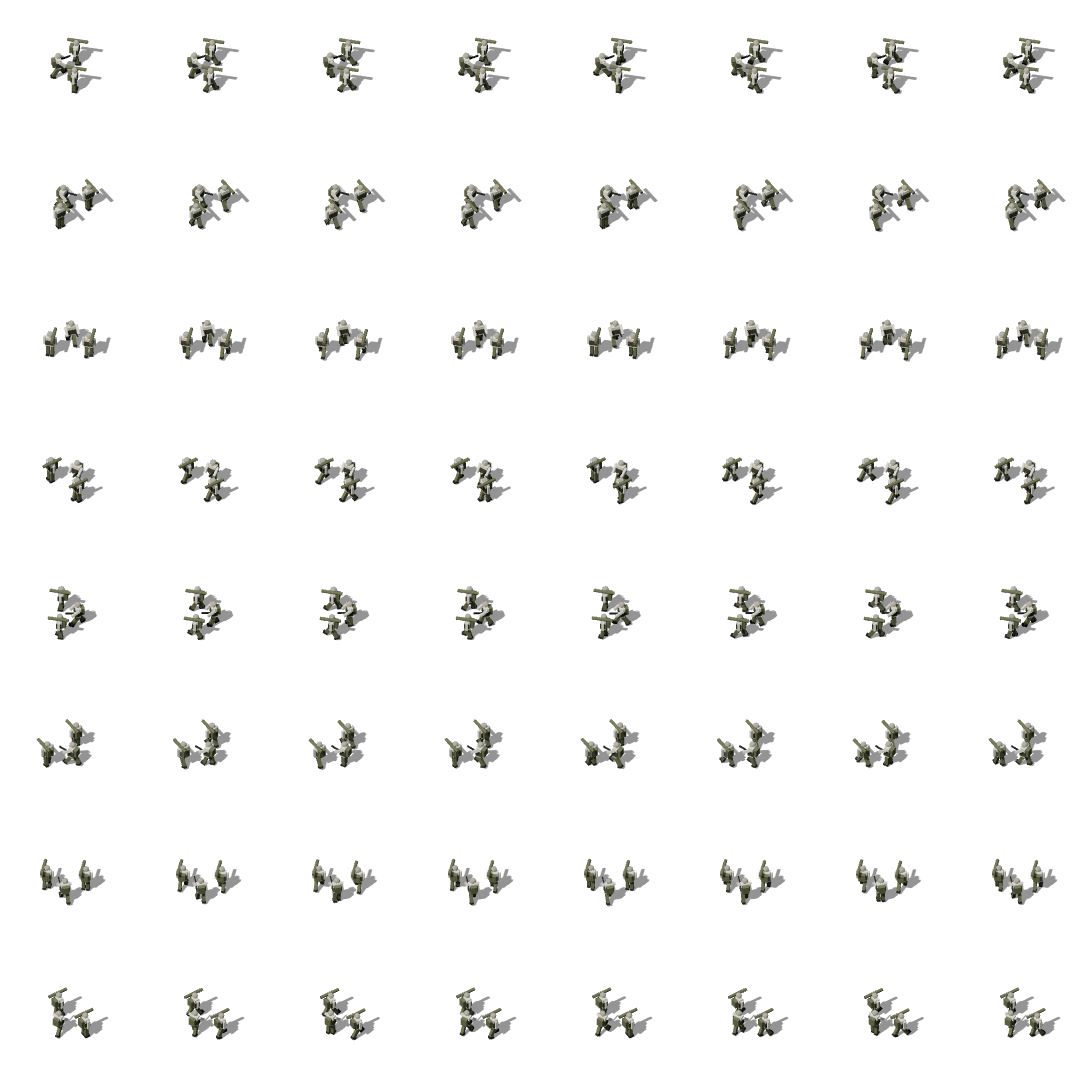
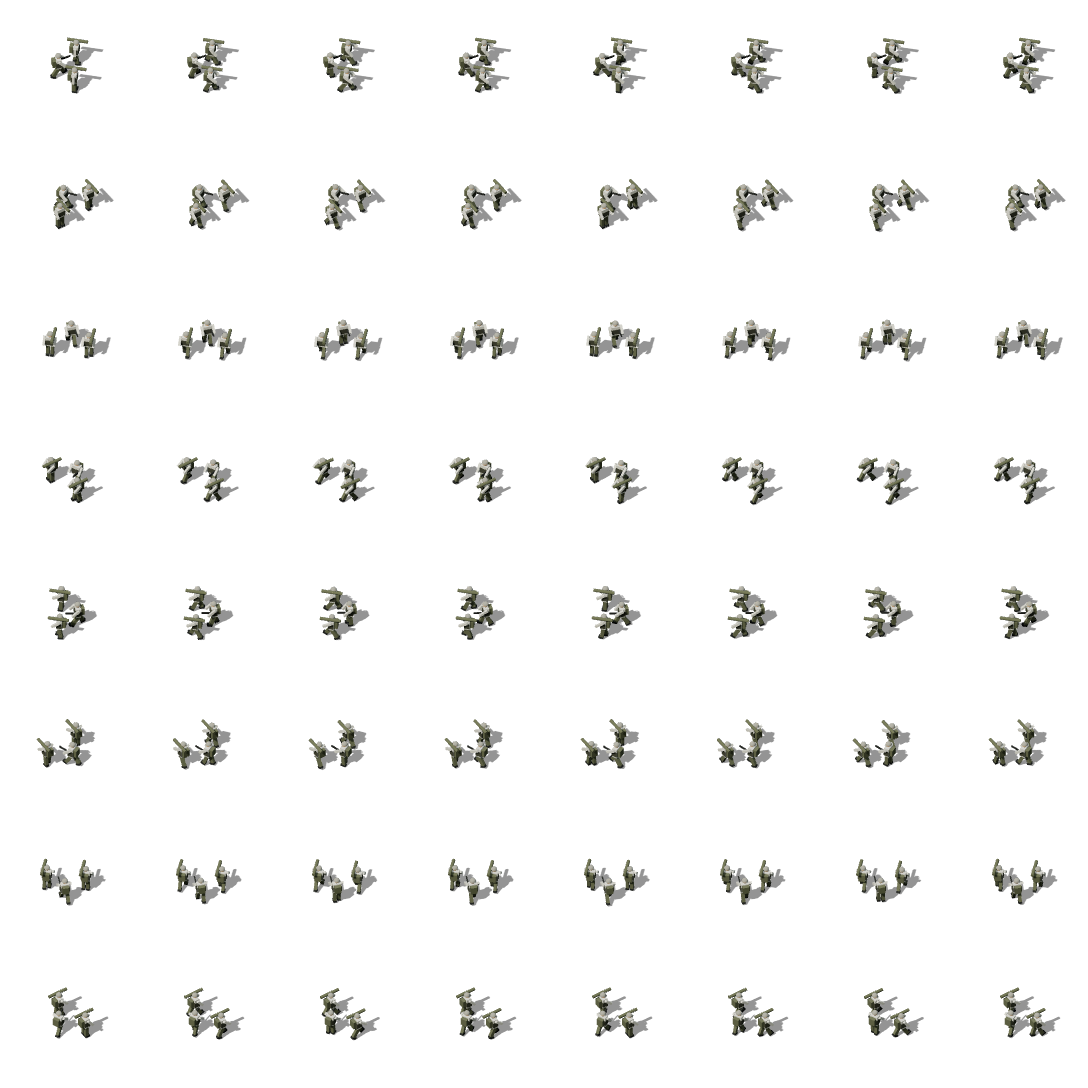
Units: MLRS (range 2) and special forces (stealth) with new 3D models, arm-swing walk cycle, wheel/track/foot movement types
Claude-Session: https://claude.ai/code/session_01KVGBc2Umi6eiR6tSvLXXtJ

diff --git a/index.html b/index.html
@@ -437,6 +437,8 @@ const UNITS = {
   frig: {name:'Gannet Frigate',    short:'FRG', cls:'naval',   cost:60, oil:6,  metal:18, mp:6,  atk:4, def:5, hp:14, spd:9,  build:60, upk:3, food:0.5, fuel:1,   req:{b:'yard', l:1}, tech:null,  vs:{air:1.8, soft:0.5, armored:0.4}, role:'Escort: protects troop convoys, shoots down aircraft.'},
   sub:  {name:'Moray Submarine',   short:'SUB', cls:'naval',   cost:55, oil:4,  metal:15, mp:5,  atk:6, def:2, hp:9,  spd:8,  build:60, upk:2, food:0.5, fuel:1,   req:{b:'yard', l:1}, tech:null,  vs:{naval:2.0, soft:0, armored:0, air:0}, role:'Hunter: double damage to ships, harmless to everything else.'},
   crui: {name:'Tempest Cruiser',   short:'CRU', cls:'naval',   cost:75, oil:10, metal:30, mp:8,  atk:7, def:6, hp:20, spd:7,  build:96, upk:5, food:0.5, fuel:2,   req:{b:'yard', l:2}, tech:null,  vs:{naval:1.3, soft:1.1, armored:0.8, air:0.6}, role:'Capital ship: bombards coasts next to its sea zone.'},
+  mlrs: {name:'Thunder MLRS',      short:'MRL', cls:'armored', cost:60, oil:5,  metal:16, mp:8,  atk:8, def:2, hp:9,  spd:7,  build:54, upk:3, food:0.5, fuel:1, req:{b:'fac', l:2}, tech:'art2', vs:{soft:1.5, armored:0.9}, role:'Rocket artillery on wheels: shells enemies up to 2 provinces away. Fragile in close combat.'},
+  spec: {name:'Wraith Special Forces', short:'SOF', cls:'soft', cost:55, oil:0,  metal:5,  mp:8,  atk:5, def:4, hp:10, spd:5,  build:42, upk:2, food:1,   fuel:0,   req:{b:'fac', l:1}, tech:'inf3', role:'Elite raiders: hidden from radar and satellites, +40% attack in forest, mountains and cities, cross rough ground fast.'},
   carr: {name:'Albatross Carrier', short:'CVN', cls:'naval',   cost:140, oil:14, metal:45, mp:10, atk:3, def:6, hp:26, spd:6, build:120, upk:7, food:1, fuel:2, req:{b:'yard', l:2}, tech:'nav2', vs:{air:1.4, soft:0.4, armored:0.3, naval:0.6}, role:'Mobile airbase: air wings can base on it and strike far from home. Weak alone; escort it.'},
   heli: {name:'Wasp Gunship',      short:'GUN', cls:'air',     cost:65, oil:8,  metal:15, mp:6,  atk:7, def:4, hp:10, spd:12, build:54, upk:4, food:0.5, fuel:1.5, req:{b:'air', l:1}, tech:'heli1', vs:{armored:2.2, soft:1.3, air:0.3, naval:0.5}, role:'Attack helicopter: short range (6 hexes), tears through armor and infantry.'},
   drone:{name:'Kite Recon UAV',    short:'DRN', cls:'air',     cost:30, oil:2,  metal:8,  mp:1,  atk:0.5, def:1, hp:4, spd:16, build:30, upk:1, food:0,   fuel:0.5, req:{b:'air', l:1}, tech:'drone1', vs:{soft:0.2, armored:0.2, air:0.1, naval:0.1}, role:'Unarmed UAV: flies to any province in range and loiters 12 hours, watching everything within 2 provinces live; the area stays revealed 12 h after it leaves.'},
@@ -464,6 +466,8 @@ const ICONS = {
   mp: '<circle cx="8" cy="4.6" r="2.4" fill="currentColor"/><path d="M3 14c0-3.2 2.2-5.2 5-5.2s5 2 5 5.2z" fill="currentColor"/>',
 };
 const USVG = {
+  mlrs: '<rect x="3" y="9" width="20" height="3" rx="1"/><path d="M17 6h5l1 3h-6z"/><path d="M4 8l9-5 1.4 2.2-9 5z"/><circle cx="7" cy="13" r="1.8"/><circle cx="12" cy="13" r="1.8"/><circle cx="19" cy="13" r="1.8"/>',
+  spec: '<circle cx="14" cy="3.5" r="2.1"/><path d="M12.6 6h2.8l1.2 4 2.4 4.5h-1.9L15 11l-1.5 3.5h-1.9l1-4.5z"/><path d="M9 8.5l11-1.6" stroke="currentColor" stroke-width="1.2" fill="none"/><path d="M4 14c3-1 5-1 8 0" stroke="currentColor" stroke-width="1" fill="none"/>',
   carr: '<path d="M1 9h26l-3 4H4z"/><path d="M3 7.6h22v1.4H3z"/><rect x="17" y="3.5" width="3" height="4"/><path d="M6 6.6l3-.9 3 .9z"/>',
   heli: '<rect x="3" y="2" width="22" height="1.2" rx=".6"/><path d="M13 3.2h1v2h-1z"/><path d="M6 7c3-1.6 8-1.8 11-.6l2 1H26v1.6h-6l-2 .8c-3 1.2-8 1-11-.4z"/><path d="M8 11h9v1H8z"/>',
   drone: '<path d="M2 7h24v1.4H2z"/><path d="M12 4.5c1.5-.4 3-.4 4.5 0l.5 6h-5.5z"/><path d="M11 11l-3 3h2l2.5-2.4zM17.5 11l3 3h-2L16 11.6z"/>',
@@ -949,10 +953,10 @@ function addArmy(owner, at, units){
 const has = (n, id) => n >= 0 && !!(S.nations[n].tech && S.nations[n].tech[id]);
 // formation names: "3rd Armored Division", "2nd Fleet", "5th Air Wing" (numbered per nation and kind)
 const ord = n => n + (n % 100 >= 11 && n % 100 <= 13 ? 'th' : ['th', 'st', 'nd', 'rd'][n % 10] || 'th');
-const KIND_NAME = {inf:'Infantry Division', at:'Anti-Tank Brigade', art:'Artillery Brigade', sam:'Air Defence Brigade', ifv:'Mechanized Division', tank:'Armored Division', para:'Airborne Brigade', heli:'Gunship Squadron', drone:'Recon Squadron', air:'Air Wing', sea:'Fleet', sub:'Submarine Flotilla', carr:'Carrier Group'};
+const KIND_NAME = {mlrs:'Rocket Artillery Brigade', spec:'Special Operations Group', inf:'Infantry Division', at:'Anti-Tank Brigade', art:'Artillery Brigade', sam:'Air Defence Brigade', ifv:'Mechanized Division', tank:'Armored Division', para:'Airborne Brigade', heli:'Gunship Squadron', drone:'Recon Squadron', air:'Air Wing', sea:'Fleet', sub:'Submarine Flotilla', carr:'Carrier Group'};
 function armyName(a){ if (!a) return ''; if (a.nm) return a.nm; if (a.owner === NEUTRAL) return a.rebel ? 'Partisans' : 'Garrison';
   let k = a.air ? (a.u.heli ? 'heli' : a.u.drone ? 'drone' : 'air') : shipsOnly(a) ? (a.u.carr ? 'carr' : a.u.sub === count(a) ? 'sub' : 'sea') : null;
-  if (!k){ let best = 'inf', bv = -1; for (const t of ['inf', 'at', 'art', 'sam', 'ifv', 'tank', 'para']){ const v = a.u[t]*UNITS[t].cost; if (v > bv){ bv = v; best = t; } } k = best; }
+  if (!k){ let best = 'inf', bv = -1; for (const t of ['inf', 'at', 'art', 'sam', 'ifv', 'tank', 'para', 'mlrs', 'spec']){ const v = a.u[t]*UNITS[t].cost; if (v > bv){ bv = v; best = t; } } k = best; }
   const c = (S.ncnt || (S.ncnt = {})), key = a.owner + ':' + k; c[key] = (c[key] || 0) + 1;
   a.nm = `${ord(c[key])} ${KIND_NAME[k]}`; return a.nm; }
 const armyLabel = a => a.owner === PLAYER ? armyName(a) : `${nationName(a.owner)} ${armyName(a)}`;
@@ -1012,7 +1016,12 @@ function cmdLost(a){ const c = cmdOf(a); if (!c) return; c.army = null; a.cmd = 
 function cmdXP(a, dealt){ const c = cmdOf(a); if (!c || dealt <= 0) return; c.xp += dealt; const need = [0, 200, 600, 1e9][c.rank];
   if (c.xp >= need && c.rank < 3){ c.rank++; if (a.owner === PLAYER) log(`${c.name} promoted to ${RANKS[c.rank]}: the ${TRAITS[c.trait].name} trait is now ${c.rank}× as strong.`, 'good', a.at); } }
 const legSpeed = (a, from, to) => (G.P[from].sea || G.P[to].sea) && ground(a) ? SEA_SPEED*(has(a.owner, 'log1') ? 1.2 : 1)*(shipsN(a) ? 1.15 : 1) : landSpeed(a);
-const legHours = (a, from, to) => G.P[from].nb.get(to)*24/(legSpeed(a, from, to)*(G.P[to].sea || !ground(a) ? 1 : terr(to).spd*(G.P[from].road.has(to) ? 1.35 : 1)*weatherSpd(to)));
+const MOVE_T = {inf:'foot', at:'foot', spec:'foot', para:'foot', art:'track', tank:'track', ifv:'wheel', sam:'wheel', mlrs:'wheel'};
+const ROAD_F = {wheel:1.6, track:1.25, foot:1.15};
+const TERR_F = {wheel:{forest:0.85, mountain:0.7, desert:0.95, tundra:0.85}, track:{forest:0.95, mountain:0.85, desert:1.05, tundra:0.95}, foot:{forest:1.1, mountain:1.3, urban:1.05}};
+function moveType(a){ let slow = null, sv = 1e9; for (const t of UT){ if (!a.u[t] || !MOVE_T[t]) continue; const v = st(a.owner, t, 'spd'); if (v < sv){ sv = v; slow = t; } } return slow ? MOVE_T[slow] : 'foot'; }
+function moveF(a, from, to){ const mt = moveType(a), P = G.P[to]; let f = (TERR_F[mt] && TERR_F[mt][P.terrain]) || 1; if (G.P[from].road.has(to)) f *= ROAD_F[mt]/1.35; const sz = season(to); if (sz === 'mud' && mt === 'wheel') f *= 0.8; if (sz === 'snow' && mt === 'wheel') f *= 0.9; if (a.u.spec === count(a)) f = Math.max(f, 1); return f; }
+const legHours = (a, from, to) => G.P[from].nb.get(to)*24/(legSpeed(a, from, to)*(G.P[to].sea || !ground(a) ? 1 : terr(to).spd*(G.P[from].road.has(to) ? 1.35 : 1)*weatherSpd(to)*moveF(a, from, to)));
 const dominant = a => UT.reduce((b, t) => a.u[t]*UNITS[t].hp > a.u[b]*UNITS[b].hp ? t : b, 'inf');
 const armyById = id => S.armies.find(a => a.id === id);
 const nationName = o => o === NEUTRAL ? 'Independent' : o === SEA ? 'Open sea' : S.nations[o].name;
@@ -2289,7 +2298,7 @@ function tick(){
         const mf = moraleF(a);
         const tm = G.P[p].sea || o === S.owner[p] ? 1 : terr(p).armor;
         const cB = o !== S.owner[p] ? 1 + 0.1*cmdF(a, 'blitz') : 1, cG = 1 + 0.2*cmdF(a, 'gunner');
-        a._dealt0 = 0; for (const t of UT){ if (!a.u[t]) continue; const base = a.u[t]*st(o, t, 'atk')*m*r*mf*(UNITS[t].cls === 'armored' ? tm : 1)*cB*(t === 'art' || t === 'sam' ? cG : 1); a._dealt0 += base; for (const k of CLASSES) av[k] += base*mult(t, k); } }
+        a._dealt0 = 0; for (const t of UT){ if (!a.u[t]) continue; const base = a.u[t]*st(o, t, 'atk')*m*r*mf*(UNITS[t].cls === 'armored' ? tm : 1)*cB*(t === 'art' || t === 'sam' || t === 'mlrs' ? cG : 1)*(t === 'spec' && !G.P[p].sea && ['forest', 'mountain', 'urban'].includes(G.P[p].terrain) ? 1.4 : 1); a._dealt0 += base; for (const k of CLASSES) av[k] += base*mult(t, k); } }
       // shore bombardment: this side's ships in adjacent sea zones add half their firepower to coastal land battles
       if (!G.P[p].sea && G.P[p].coast) for (const sz of G.P[p].nbs){ if (!G.P[sz].sea) continue;
         for (const a of S.armies){ if (a.owner !== o || a.at !== sz || a.to !== null) continue;
@@ -2374,12 +2383,14 @@ function reportHTML(R){
     <div class="row"><button class="btn primary" data-act="resume">Back to the map</button><button class="btn" data-act="goto" data-id="${R.p}">Show on map</button></div>`;
 }
 function rangedHour(){
-  for (const a of S.armies){ if (a.owner < 0 || !a.u.art || a.air || a.fly || a.to !== null || G.P[a.at].sea || S.battles.includes(a.at) || a.fire === 'hold') continue;
-    let best = -1, bp = 0; for (const v of G.P[a.at].nbs){ if (G.P[v].sea) continue; const foes = stationaryAt(v).filter(b => b.owner >= 0 && atWar(a.owner, b.owner)); const pw = foes.reduce((s0, b) => s0 + power(b), 0); if (pw > bp){ bp = pw; best = v; } }
+  for (const a of S.armies){ if (a.owner < 0 || !(a.u.art || a.u.mlrs) || a.air || a.fly || a.to !== null || G.P[a.at].sea || S.battles.includes(a.at) || a.fire === 'hold') continue;
+    const near = new Set(G.P[a.at].nbs.filter(v => !G.P[v].sea)), far = new Set(); if (a.u.mlrs) for (const v of near) for (const w of G.P[v].nbs) if (!G.P[w].sea && w !== a.at && !near.has(w)) far.add(w);
+    let best = -1, bp = 0; for (const v of [...near, ...far]){ const foes = stationaryAt(v).filter(b => b.owner >= 0 && atWar(a.owner, b.owner)); const pw = foes.reduce((s0, b) => s0 + power(b), 0)*(near.has(v) ? 1.1 : 1); if (pw > bp){ bp = pw; best = v; } }
     if (best < 0) continue;
     const foes = stationaryAt(best).filter(b => b.owner >= 0 && atWar(a.owner, b.owner)), tot = foes.reduce((s0, b) => s0 + armyHP(b), 0) || 1;
-    const av = {soft:0, armored:0, air:0, naval:0}, base = a.u.art*st(a.owner, 'art', 'atk')*K*0.28*moraleF(a)*(1 + 0.2*cmdF(a, 'gunner'))*(0.8 + rng()*0.4);
-    for (const k of CLASSES) av[k] = base*mult('art', k);
+    const av = {soft:0, armored:0, air:0, naval:0}, shooters = (near.has(best) ? [['art', a.u.art], ['mlrs', a.u.mlrs]] : [['mlrs', a.u.mlrs]]).filter(e => e[1]);
+    let base = 0; for (const [t, n] of shooters){ const b0 = n*st(a.owner, t, 'atk')*K*0.28*moraleF(a)*(1 + 0.2*cmdF(a, 'gunner'))*(0.8 + rng()*0.4); base += b0; for (const k of CLASSES) av[k] += b0*mult(t, k); }
+    if (!base) continue;
     for (const b of foes){ const h0 = effHP(b), u0 = count(b); hurt(b, av, (b.owner === S.owner[best] ? Math.pow(0.8, S.bld[best].fort) : 1)/tot); const lost = Math.max(0, h0 - effHP(b));
       if (lost >= 0.5 && booted && (a.owner === PLAYER || b.owner === PLAYER || visibleSet().has(best))) fx('dmg', best, {owner:b.owner, val:lost, text:`−${Math.round(lost)}`, color:b.owner === PLAYER ? '#ff8f86' : shade(colorOf(b.owner), 0.35)});
       if (u0 - count(b) > 0 && (a.owner === PLAYER || b.owner === PLAYER)) bump(a.owner === PLAYER ? 'unitsKilled' : 'unitsLost', u0 - count(b)); }
@@ -2740,7 +2751,8 @@ function drawSats(now){ if (!S.sats || !S.sats.length) return; ctx.save(); ctx.s
       if (Math.floor(now/500 + st.id) % 2 === 0){ ctx.fillStyle = mine ? '#8fe0ff' : '#ff6a5a'; ctx.beginPath(); ctx.arc(0, -4.6*sc, 1.2*sc, 0, Math.PI*2); ctx.fill(); }
       ctx.restore(); } }
   ctx.restore(); }
-function armyVisible(a, vis){ return a.owner === PLAYER || (a.owner >= 0 && friendly(PLAYER, a.owner) && rel(PLAYER, a.owner).st === 'ally') || vis.has(a.at) || (a.to !== null && vis.has(a.to)); }
+function armyVisible(a, vis){ if (a.owner !== PLAYER && a.owner >= 0 && a.u.spec && a.u.spec === count(a) && !S.armies.some(b => b.owner === PLAYER && !b.air && (b.at === a.at || G.P[b.at].nbs.includes(a.at)))) return false;   // special forces: only seen up close
+  return a.owner === PLAYER || (a.owner >= 0 && friendly(PLAYER, a.owner) && rel(PLAYER, a.owner).st === 'ally') || vis.has(a.at) || (a.to !== null && vis.has(a.to)); }
 function armyPos(a){
   if (a.air) return wingPos(a);
   if (a.fly && a.fly.kind === 'drop'){ const A = G.P[a.fly.from], B = G.P[a.fly.tgt], t = Math.min(1, a.fly.t + (S.speed && !S.over ? acc : 0)*a.fly.dt); return [A.x + (B.x - A.x)*t, A.y + (B.y - A.y)*t]; }
@@ -2863,7 +2875,7 @@ function unitFigure(t, x, y, s, col, now, moving, fighting, dir, seed, n){
 const zoomK = hexPx => Math.max(0.75, Math.min(hexPx > 24 ? Math.min(3, Math.max(2, hexPx/20)) : 1.35, hexPx/12));
 // close zoom: draw each force as a formation of sprites in ranks (1 figure per ~2 units, max 10); casualties drop out
 const FORM_PX = 36, FIGPREV = new Map(), FALL = [];
-const FIG_ORDER = {tank:0, ifv:1, at:2, inf:3, sam:4, art:5, frig:0, crui:0, sub:1};
+const FIG_ORDER = {tank:0, ifv:1, spec:2, at:2, inf:3, sam:4, art:5, mlrs:5, frig:0, crui:0, sub:1};
 function formation(x, y, list, n, color, s, ang, moving, fighting, now, night){
   const tot = {}; for (const a of list) for (const t of UT) if (a.u[t] && UNITS[t].cls !== 'air') tot[t] = (tot[t] || 0) + a.u[t];
   const types = Object.keys(tot); if (!types.length || !types.every(t => U3D.has(t))) return null;
@@ -2887,8 +2899,8 @@ function formation(x, y, list, n, color, s, ang, moving, fighting, now, night){
   FIGPREV.set(key, {n:slots.length, slots:slots.map(q => ({t:q.t, x:q.x, y:q.y}))});
   let x0 = Infinity, y0 = Infinity, x1 = -Infinity, y1 = -Infinity;
   for (const q of slots.slice().sort((a, b) => a.y - b.y)){
-    const seed = key*7 + q.i*5, inf = q.t === 'inf' || q.t === 'at';
-    const fr = inf ? (moving ? Math.floor(now/85 + seed) % 8 : fighting ? (shotPhase(seed, now) < 90 ? 1 : 0) : 0) : fighting ? ((ph => q.t === 'tank' ? (ph < 50 ? 1 : ph < 110 ? 2 : ph < 180 ? 3 : ph < 260 ? 4 : 0) : q.t === 'art' ? (ph < 70 ? 1 : ph < 150 ? 2 : ph < 250 ? 3 : 0) : ph < 90 ? 1 : 0)(shotPhase(seed, now))) : 0;
+    const seed = key*7 + q.i*5, inf = q.t === 'inf' || q.t === 'at' || q.t === 'spec' || q.t === 'para';
+    const fr = q.t === 'mlrs' ? (fighting ? (shotPhase(seed, now) < 120 ? 2 : 1) : 0) : inf ? (moving ? Math.floor(now/85 + seed) % 8 : fighting ? (shotPhase(seed, now) < 90 ? 1 : 0) : 0) : fighting ? ((ph => q.t === 'tank' ? (ph < 50 ? 1 : ph < 110 ? 2 : ph < 180 ? 3 : ph < 260 ? 4 : 0) : q.t === 'art' ? (ph < 70 ? 1 : ph < 150 ? 2 : ph < 250 ? 3 : 0) : ph < 90 ? 1 : 0)(shotPhase(seed, now))) : 0;
     ctx.beginPath(); ctx.ellipse(q.x, q.y + 1, fh*0.26, fh*0.07, 0, 0, Math.PI*2); ctx.fillStyle = 'rgba(0,0,0,.28)'; ctx.fill();
     U3D.draw(ctx, q.t, color, q.x, q.y + 2*s, fh, ang, fr, night);
     x0 = Math.min(x0, q.x - fh*0.4); x1 = Math.max(x1, q.x + fh*0.4); y0 = Math.min(y0, q.y - fh*0.6); y1 = Math.max(y1, q.y + fh*0.2); }
@@ -2990,8 +3002,8 @@ function counter(x, y, a, n, color, selected, moving, s, stack = false, fighting
       if (fighting && counter.vol) counter.vol(fr.t, ang3, hpx, fr.x, fr.y); }
   } catch (e) { form = null; }
   if (form) use3d = false;
-  if (use3d && !form) try { const night = a && isNight(a.at), hpx = ({inf:62, at:62, art:70, sam:70, ifv:66, tank:68, jet:34, int:34, frig:54, sub:46, crui:60, carr:70})[main]*s, ang3 = counter.ang ?? (dir < 0 ? Math.PI*0.85 : Math.PI*0.15);
-    const fr = (main === 'inf' || main === 'at') ? (moving ? Math.floor(now/85 + seed) % 8 : 0) : fighting ? ((ph => main === 'tank' ? (ph < 50 ? 1 : ph < 110 ? 2 : ph < 180 ? 3 : ph < 260 ? 4 : 0) : main === 'art' ? (ph < 70 ? 1 : ph < 150 ? 2 : ph < 250 ? 3 : 0) : ph < 90 ? 1 : 0)(shotPhase(seed, now))) : 0;
+  if (use3d && !form) try { const night = a && isNight(a.at), hpx = ({inf:62, at:62, art:70, sam:70, ifv:66, tank:68, jet:34, int:34, frig:54, sub:46, crui:60, carr:70, mlrs:62, spec:58, heli:40, drone:34, para:62})[main]*s, ang3 = counter.ang ?? (dir < 0 ? Math.PI*0.85 : Math.PI*0.15);
+    const fr = main === 'mlrs' ? (fighting ? (shotPhase(seed, now) < 120 ? 2 : 1) : 0) : (main === 'inf' || main === 'at' || main === 'spec' || main === 'para') ? (moving ? Math.floor(now/85 + seed) % 8 : 0) : fighting ? ((ph => main === 'tank' ? (ph < 50 ? 1 : ph < 110 ? 2 : ph < 180 ? 3 : ph < 260 ? 4 : 0) : main === 'art' ? (ph < 70 ? 1 : ph < 150 ? 2 : ph < 250 ? 3 : 0) : ph < 90 ? 1 : 0)(shotPhase(seed, now))) : 0;
     if (types[1]){ const h2 = hpx*0.72; U3D.draw(ctx, types[1], color, x - 16*fs*dir, y - 7*fs, h2, ang3, 0, night); }
     U3D.draw(ctx, main, color, x + shake*0.4, y + 2*s, hpx, ang3, fr, night);
     if (moving && UNITS[main].cls !== 'naval' && counter.dust) counter.dust(main, ang3, hpx);
@@ -3836,7 +3848,7 @@ function armyHTML(a){
     ${enemies.length ? `<dt>Enemy here</dt><dd>${Math.round(enemies.reduce((s, b) => s + power(b), 0))} strength</dd>` : ''}</dl>
     ${a.air || shipsOnly(a) ? '' : (c => c ? `<div class="cmd"><span class="ins">${'★'.repeat(c.rank)}</span><div><b>${RANKS[c.rank]} ${c.name}</b><div class="small muted">${TRAITS[c.trait].icon} ${TRAITS[c.trait].name}: ${TRAITS[c.trait].desc} · XP ${Math.round(c.xp)}${c.rank < 3 ? "/" + [0, 200, 600][c.rank] : ""}</div></div><button class="btn" data-act="cmd-off" style="padding:2px 7px;font-size:12px">Relieve</button></div>`
       : (free => `<div class="row" style="align-items:center"><span class="small muted">Commander</span>${free.length ? free.map(f => `<button class="btn" data-act="cmd-on" data-id="${f.id}" title="${TRAITS[f.trait].desc}" style="padding:3px 8px;font-size:12px">${TRAITS[f.trait].icon} ${f.name}</button>`).join('') : ''}${cmdList(PLAYER).length < CMD_MAX ? `<button class="btn" data-act="cmd-new" ${S.nations[PLAYER].cash >= CMD_COST ? '' : 'disabled'} style="padding:3px 8px;font-size:12px" title="Appoint a new commander with a random trait (max ${CMD_MAX})">Appoint · $${CMD_COST}M</button>` : ''}</div>`)(cmdList(PLAYER).filter(f => f.army == null)))(cmdOf(a))}
-    ${a.u.art ? `<div class="row" style="align-items:center"><span class="small muted">Artillery</span><button class="btn ${a.fire !== 'hold' ? 'primary' : ''}" data-act="fire" data-v="free" style="padding:3px 9px;font-size:12px" title="Shell enemy forces in neighbouring provinces every hour">Fire at will</button><button class="btn ${a.fire === 'hold' ? 'primary' : ''}" data-act="fire" data-v="hold" style="padding:3px 9px;font-size:12px">Hold fire</button></div>` : ''}
+    ${a.u.art || a.u.mlrs ? `<div class="row" style="align-items:center"><span class="small muted">Artillery${a.u.mlrs ? ' · range 2' : ''}</span><button class="btn ${a.fire !== 'hold' ? 'primary' : ''}" data-act="fire" data-v="free" style="padding:3px 9px;font-size:12px" title="Shell enemy forces in neighbouring provinces every hour">Fire at will</button><button class="btn ${a.fire === 'hold' ? 'primary' : ''}" data-act="fire" data-v="hold" style="padding:3px 9px;font-size:12px">Hold fire</button></div>` : ''}
     ${a.chase != null && armyById(a.chase) ? `<div class="status move">Pursuing ${armyLabel(armyById(a.chase))}</div>` : ''}
     ${a.air || shipsOnly(a) ? '' : `<div class="row" style="align-items:center"><span class="small muted">Stance</span>${Object.entries(STANCES).map(([k, v]) => `<button class="btn ${(a.stance || 'hold') === k ? 'primary' : ''}" data-act="stance-set" data-k="${k}" title="${v[1]}" style="padding:3px 9px;font-size:12px">${v[0]}</button>`).join('')}</div>`}
     <div class="row">

diff --git a/units3d.js b/units3d.js
@@ -7,7 +7,7 @@
   const T = window.THREE;
   const META = {inf:{dirs:8, frames:8}, at:{dirs:8, frames:8}, tank:{dirs:8, frames:6}, ifv:{dirs:8, frames:2}, art:{dirs:8, frames:4}, sam:{dirs:8, frames:2},
                 jet:{dirs:16, frames:2, air:true}, int:{dirs:16, frames:2, air:true}, frig:{dirs:16, frames:1, sea:true}, sub:{dirs:16, frames:1, sea:true}, crui:{dirs:16, frames:1, sea:true},
-                heli:{dirs:16, frames:4, air:true}, drone:{dirs:16, frames:1, air:true}, carr:{dirs:16, frames:1, sea:true}};
+                heli:{dirs:16, frames:4, air:true}, drone:{dirs:16, frames:1, air:true}, carr:{dirs:16, frames:1, sea:true}, mlrs:{dirs:8, frames:3}, spec:{dirs:8, frames:8}};
   const ALIAS = {para:'inf'};
   const BAKE_SZ = 136;
   const SZ = window.__BAKE ? BAKE_SZ : ((window.devicePixelRatio || 1) > 1.3 && (window.innerWidth || 1000) > 820 ? 136 : 112);   // pixels per frame
@@ -132,10 +132,24 @@
     else { const rifle = box(0.07, 0.1, 0.95, M.dark, 0.2, 1.08*k, 0.36); rifle.rotation.x = -0.22; s.add(rifle); armR.rotation.x = -0.95; armL.rotation.x = -0.75; }
     return s;
   }
-  function squad(tube){
+  function mlrs(){
+    const g = new T.Group(), t = team(), td = team(true);
+    for (const z of [2.2, 0.9, -0.6, -1.9]) for (const sx of [-1.15, 1.15]){ const w = cyl(0.55, 0.55, 0.42, M.rubber, 14); w.rotation.z = Math.PI/2; w.position.set(sx, 0.55, z); g.add(w); const hub = cyl(0.22, 0.22, 0.44, M.gearD, 8); hub.rotation.z = Math.PI/2; hub.position.set(sx, 0.55, z); g.add(hub); }
+    g.add(box(2.1, 0.5, 6.0, td, 0, 1.0, 0.1));                                       // chassis
+    g.add(extrudeSide([[1.9, 1.25], [3.25, 1.25], [3.25, 2.1], [2.9, 2.75], [1.9, 2.75]], 2.2, t));   // cab
+    g.add(box(1.9, 0.5, 0.06, M.glass, 0, 2.35, 2.98));
+    const pod = new T.Group(); pod.name = 'pod'; pod.position.set(0, 1.55, -0.9);
+    const body = box(1.9, 1.0, 3.2, t, 0, 0.5, 0); pod.add(body);
+    for (let r = 0; r < 2; r++) for (let c = 0; c < 3; c++){ const tb = cyl(0.17, 0.17, 0.08, M.dark, 10); tb.rotation.x = Math.PI/2; tb.position.set(-0.6 + c*0.6, 0.28 + r*0.46, 1.62); pod.add(tb); }
+    const flame = mesh(new T.ConeGeometry(0.35, 1.6, 10), M.exhaust); flame.rotation.x = Math.PI/2; flame.position.set(0, 0.5, -2.1); flame.name = 'flame'; flame.castShadow = false; pod.add(flame);
+    g.add(pod);
+    return {g, ext:4.6};
+  }
+  function squad(tube, spec){
     const g = new T.Group(), t = team();
     const spots = tube ? [[-1.1, 0.4], [0.2, -0.6], [1.3, 0.5]] : [[-2.0, 0.6], [-0.9, -0.7], [0.2, 0.5], [1.3, -0.6], [2.3, 0.4]];
-    spots.forEach(([x, z], i) => { const s = soldier(t, tube && i !== 1); s.position.set(x, 0, z); s.rotation.y = (i % 2 ? 0.25 : -0.2); s.userData.ph = i*1.7; s.name = 'soldier'; g.add(s); });
+    const sp = spec ? [[-1.0, 0.3], [0.1, -0.5], [1.1, 0.4]] : spots;
+    sp.forEach(([x, z], i) => { const s = soldier(spec ? team(true) : t, tube && i !== 1); s.position.set(x, 0, z); s.rotation.y = (i % 2 ? 0.25 : -0.2); s.userData.ph = i*1.7; s.name = 'soldier'; if (spec){ s.scale.set(1, 0.9, 1); s.rotation.x = 0.12; } g.add(s); });
     return {g, ext:4.2};
   }
   function jet(kind){
@@ -221,9 +235,9 @@
     else { g.add(box(B*0.85, 0.02, 1.05, M.deck, 0, 0.68, -L*0.38)); const rd = cyl(0.3, 0.3, 0.02, t, 16); rd.position.set(0, 0.7, -L*0.38); g.add(rd); }
     return {g, ext:big ? 5.6 : 4.9, sea:true};
   }
-  const BUILDERS = {tank:mbt, ifv, art:arty, sam, inf:() => squad(false), at:() => squad(true), jet:() => jet('jet'), int:() => jet('int'), frig:() => ship('frig'), sub:() => ship('sub'), crui:() => ship('crui'), carr:() => ship('carr'), heli, drone};
+  const BUILDERS = {tank:mbt, ifv, art:arty, sam, inf:() => squad(false), at:() => squad(true), jet:() => jet('jet'), int:() => jet('int'), frig:() => ship('frig'), sub:() => ship('sub'), crui:() => ship('crui'), carr:() => ship('carr'), heli, drone, mlrs, spec:() => squad(false, true)};
   const SPEC = {inf:{dirs:8, frames:8}, at:{dirs:8, frames:8}, tank:{dirs:8, frames:6}, ifv:{dirs:8, frames:2}, art:{dirs:8, frames:4}, sam:{dirs:8, frames:2},
-                jet:{dirs:16, frames:2}, int:{dirs:16, frames:2}, frig:{dirs:16, frames:1}, sub:{dirs:16, frames:1}, crui:{dirs:16, frames:1}, carr:{dirs:16, frames:1}, heli:{dirs:16, frames:4}, drone:{dirs:16, frames:1}};
+                jet:{dirs:16, frames:2}, int:{dirs:16, frames:2}, frig:{dirs:16, frames:1}, sub:{dirs:16, frames:1}, crui:{dirs:16, frames:1}, carr:{dirs:16, frames:1}, heli:{dirs:16, frames:4}, drone:{dirs:16, frames:1}, mlrs:{dirs:8, frames:3}, spec:{dirs:8, frames:8}};
 
   // ---------- scene
   const scene = new T.Scene();
@@ -237,8 +251,10 @@
 
   function pose(model, type, frame){
     const g = model.g;
-    if (type === 'inf' || type === 'at'){ g.traverse(o => { if (o.name !== 'soldier') return; const ph = frame/8*Math.PI*2 + (o.userData.ph || 0), sw = Math.sin(ph)*0.55;
-      o.getObjectByName('legL').rotation.x = sw; o.getObjectByName('legR').rotation.x = -sw; o.position.y = Math.abs(Math.cos(ph))*0.06; }); }
+    if (type === 'inf' || type === 'at' || type === 'spec'){ g.traverse(o => { if (o.name !== 'soldier') return; const ph = frame/8*Math.PI*2 + (o.userData.ph || 0), sw = Math.sin(ph)*0.55;
+      o.getObjectByName('legL').rotation.x = sw; o.getObjectByName('legR').rotation.x = -sw; o.position.y = Math.abs(Math.cos(ph))*0.07;
+      const aL = o.getObjectByName('armL'), aR = o.getObjectByName('armR'); if (aL && aR && frame){ aL.rotation.x = -0.75 - sw*0.25; aR.rotation.x = -0.95 + sw*0.2; } }); }
+    const pod = g.getObjectByName('pod'); if (pod) pod.rotation.x = frame ? -0.55 : 0;
     const gun = g.getObjectByName('gun'), tur = g.getObjectByName('turret');
     if (gun && (type === 'tank' || type === 'art' || type === 'ifv')){
       if (gun.userData.z0 === undefined) gun.userData.z0 = gun.position.z;
@@ -247,7 +263,7 @@
       if (tur && type === 'tank') tur.rotation.x = [0, -0.035, -0.02, -0.01, 0, 0][frame] || 0;
     }
     if (type === 'sam'){ const l = g.getObjectByName('gun'); if (l) l.rotation.x = frame ? -0.75 : -0.55; }
-    const fl = g.getObjectByName('flame'); if (fl) fl.visible = frame === 1;
+    const fl = g.getObjectByName('flame'); if (fl) fl.visible = type === 'mlrs' ? frame === 2 : frame === 1;
     const ro = g.getObjectByName('rotor'); if (ro) ro.rotation.y = frame*Math.PI/8;
     const tro = g.getObjectByName('trotor'); if (tro) tro.rotation.x = frame*Math.PI/4;
   }
@@ -308,7 +324,7 @@
       cache[t] = {base:mk(b), mask:mk(m), dirs:meta.dirs, frames:meta.frames, air:!!meta.air, sea:!!meta.sea}; }));
     return true;
   }
-  const queue = ['inf', 'tank', 'at', 'art', 'ifv', 'sam', 'jet', 'int', 'frig', 'sub', 'crui', 'heli', 'drone', 'carr'];
+  const queue = ['inf', 'tank', 'at', 'art', 'ifv', 'sam', 'jet', 'int', 'frig', 'sub', 'crui', 'heli', 'drone', 'carr', 'mlrs', 'spec'];
   let warm = false;
   function warmup(){ if (warm || !buildFn) return; warm = true; let i = 0; const step = () => { if (i >= queue.length) return; try { if (!cache[queue[i]]) buildFn(queue[i]); i++; } catch (e) { i++; } setTimeout(step, 30); }; setTimeout(step, 50); }
   window.U3D = {

diff --git a/tools/bake-assets.js b/tools/bake-assets.js
@@ -9,7 +9,7 @@ const { chromium } = require('playwright'); const fs = require('fs'); const path
   const save = (rel, dataUrl) => { fs.writeFileSync(path.join(out, rel), Buffer.from(dataUrl.split(',')[1], 'base64')); };
   save('terrain.webp', await p.evaluate(() => window.__im.G.terrain.toDataURL('image/webp', 0.9)));
   save('landmask.png', await p.evaluate(() => window.__im.G.landMask.toDataURL('image/png')));
-  for (const t of ['inf', 'at', 'art', 'sam', 'ifv', 'tank', 'jet', 'int', 'frig', 'sub', 'crui', 'heli', 'drone', 'carr']){
+  for (const t of ['inf', 'at', 'art', 'sam', 'ifv', 'tank', 'jet', 'int', 'frig', 'sub', 'crui', 'heli', 'drone', 'carr', 'mlrs', 'spec']){
     const a = await p.evaluate(tt => window.U3D.exportAtlas(tt), t); if (!a){ errs.push('no atlas ' + t); continue; }
     save(`units/${t}.png`, a.base); save(`units/${t}_m.png`, a.mask); }
   const sizes = fs.readdirSync(out).concat(fs.readdirSync(path.join(out, 'units')).map(f => 'units/' + f)).filter(f => /\.(png|webp)$/.test(f)).map(f => `${f} ${(fs.statSync(path.join(out, f)).size/1024).toFixed(0)}K`);

diff --git a/CHANGELOG.md b/CHANGELOG.md
@@ -380,3 +380,13 @@
 - Convoys: provinces cut off by land from your capital (islands, distant coasts, overseas conquests) ship their output home every day along a sea route.
   - Enemy submarines, frigates or cruisers stationed on that route sink the convoy, and that day's output from those provinces is lost. You get a dispatch naming the attacker and where; your own warships sinking enemy convoys are reported too.
   - Convoys are drawn as small cargo ships with wakes sailing their routes, and raided ones go down in an explosion and smoke.
+
+## Round 50 — More realistic units: new types, livelier models, movement by type
+- New unit: **Thunder MLRS**, wheeled rocket artillery (Arms Factory II, Rocket Artillery research). It shells enemy forces up to 2 provinces away every hour without engaging, but is fragile in close combat. Its new 3D model has an 8-wheel truck chassis, a cab, and a six-tube launcher pod with three animation frames: stowed, raised and firing with exhaust flame.
+- New unit: **Wraith Special Forces** (Special Forces research). Enemy radar, airbases and satellites can't spot them; only troops in the same or a neighbouring province see them. They get +40% attack in forest, mountains and cities and cross rough ground without slowing. Their model is a darker, crouching three-soldier team.
+- Livelier infantry: soldiers swing their arms against their stride and bob as they march (all infantry, anti-tank, special forces and paratroopers).
+- Movement by type: each force moves like its slowest unit's drive type.
+  - **Wheels** (IFV, SAM, MLRS) are 60% faster on highways but slower in forest, mountains and tundra, and bog down in spring mud and snow.
+  - **Tracks** (tanks, artillery) take 25% from highways and handle rough ground better.
+  - **Foot** troops gain least from roads but cross mountains and forests best.
+- Formation names: Rocket Artillery Brigade, Special Operations Group. Artillery panels show range 2 when rocket artillery is present.
